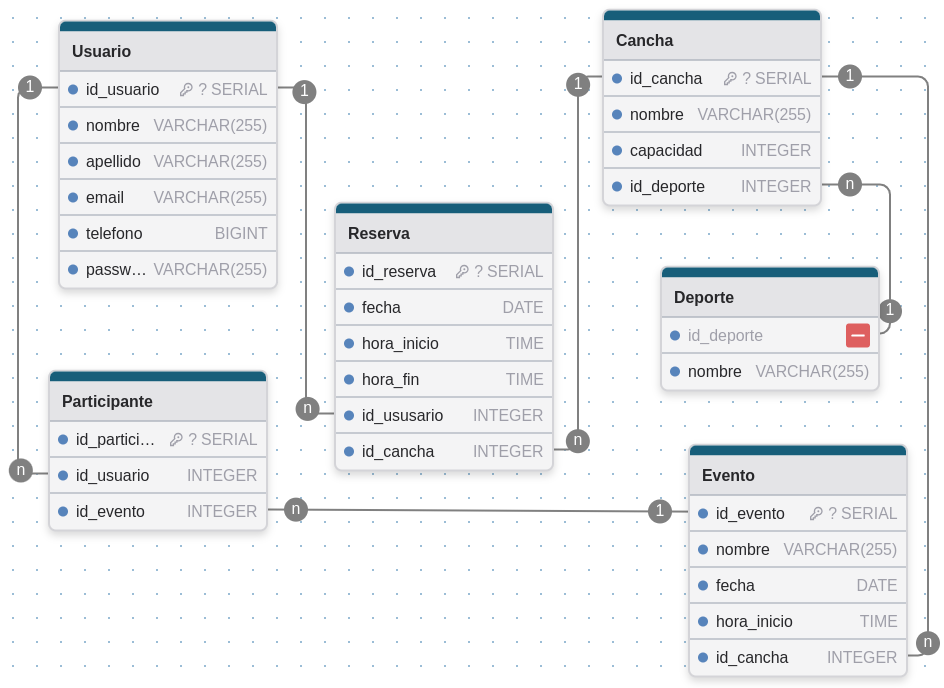
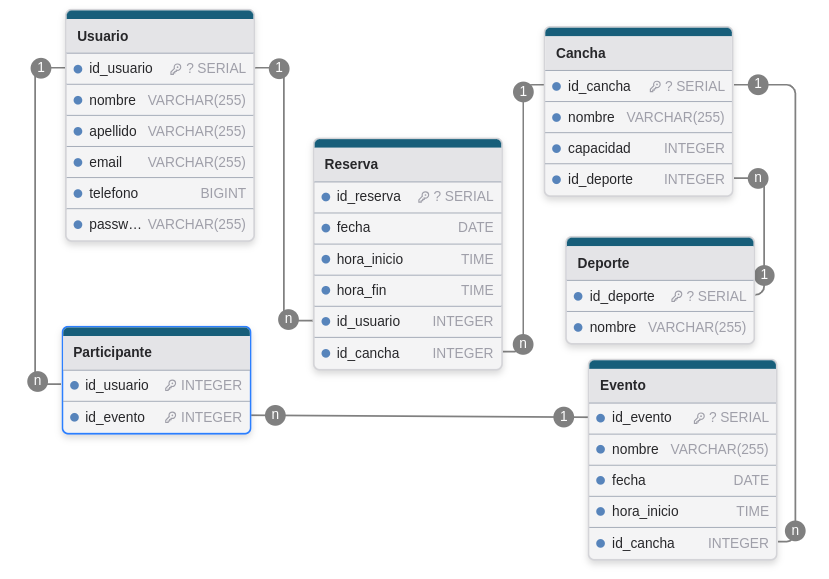
fix(db): reduces Participante table

Changed region(s): [[0.0, 0.0, 0.9952, 0.9948]]

diff --git a/DataBase/README.md b/DataBase/README.md
@@ -1,4 +1,4 @@
-# GoSportDB documentation
+# Untitled diagram documentation
 
 ## Summary
 
@@ -61,22 +61,21 @@
 
 ### Reserva
 
-| Name            | Type    | Settings    | References                     | Note |
-| --------------- | ------- | ----------- | ------------------------------ | ---- |
-| **id_reserva**  | SERIAL  | 🔑 PK, null |                                |      |
-| **fecha**       | DATE    | not null    |                                |      |
-| **hora_inicio** | TIME    | not null    |                                |      |
-| **hora_fin**    | TIME    | not null    |                                |      |
-| **id_ususario** | INTEGER | not null    | fk_Reserva_id_ususario_Usuario |      |
-| **id_cancha**   | INTEGER | not null    | fk_Reserva_id_cancha_Cancha    |      |
+| Name            | Type    | Settings    | References                    | Note |
+| --------------- | ------- | ----------- | ----------------------------- | ---- |
+| **id_reserva**  | SERIAL  | 🔑 PK, null |                               |      |
+| **fecha**       | DATE    | not null    |                               |      |
+| **hora_inicio** | TIME    | not null    |                               |      |
+| **hora_fin**    | TIME    | not null    |                               |      |
+| **id_usuario**  | INTEGER | not null    | fk_Reserva_id_usuario_Usuario |      |
+| **id_cancha**   | INTEGER | not null    | fk_Reserva_id_cancha_Cancha   |      |
 
 ### Participante
 
-| Name                | Type    | Settings    | References                         | Note |
-| ------------------- | ------- | ----------- | ---------------------------------- | ---- |
-| **id_participante** | SERIAL  | 🔑 PK, null |                                    |      |
-| **id_usuario**      | INTEGER | not null    | fk_Participante_id_usuario_Usuario |      |
-| **id_evento**       | INTEGER | not null    | fk_Participante_id_evento_Evento   |      |
+| Name           | Type    | Settings        | References                         | Note |
+| -------------- | ------- | --------------- | ---------------------------------- | ---- |
+| **id_usuario** | INTEGER | 🔑 PK, not null | fk_Participante_id_usuario_Usuario |      |
+| **id_evento**  | INTEGER | 🔑 PK, not null | fk_Participante_id_evento_Evento   |      |
 
 ## Relationships
 
@@ -91,54 +90,53 @@
 
 ```mermaid
 erDiagram
-	Cancha }o--|| Deporte : references
-	Evento }o--|| Cancha : references
-	Reserva }o--|| Usuario : references
-	Reserva }o--|| Cancha : references
-	Participante }o--|| Usuario : references
-	Participante }o--|| Evento : references
+ Cancha }o--|| Deporte : references
+ Evento }o--|| Cancha : references
+ Reserva }o--|| Usuario : references
+ Reserva }o--|| Cancha : references
+ Participante }o--|| Usuario : references
+ Participante }o--|| Evento : references
 
-	Usuario {
-		SERIAL id_usuario
-		VARCHAR(255) nombre
-		VARCHAR(255) apellido
-		VARCHAR(255) email
-		BIGINT telefono
-		VARCHAR(255) password
-	}
+ Usuario {
+  SERIAL id_usuario
+  VARCHAR(255) nombre
+  VARCHAR(255) apellido
+  VARCHAR(255) email
+  BIGINT telefono
+  VARCHAR(255) password
+ }
 
-	Deporte {
-		SERIAL id_deporte
-		VARCHAR(255) nombre
-	}
+ Deporte {
+  SERIAL id_deporte
+  VARCHAR(255) nombre
+ }
 
-	Cancha {
-		SERIAL id_cancha
-		VARCHAR(255) nombre
-		INTEGER capacidad
-		INTEGER id_deporte
-	}
+ Cancha {
+  SERIAL id_cancha
+  VARCHAR(255) nombre
+  INTEGER capacidad
+  INTEGER id_deporte
+ }
 
-	Evento {
-		SERIAL id_evento
-		VARCHAR(255) nombre
-		DATE fecha
-		TIME hora_inicio
-		INTEGER id_cancha
-	}
+ Evento {
+  SERIAL id_evento
+  VARCHAR(255) nombre
+  DATE fecha
+  TIME hora_inicio
+  INTEGER id_cancha
+ }
 
-	Reserva {
-		SERIAL id_reserva
-		DATE fecha
-		TIME hora_inicio
-		TIME hora_fin
-		INTEGER id_ususario
-		INTEGER id_cancha
-	}
+ Reserva {
+  SERIAL id_reserva
+  DATE fecha
+  TIME hora_inicio
+  TIME hora_fin
+  INTEGER id_usuario
+  INTEGER id_cancha
+ }
 
-	Participante {
-		SERIAL id_participante
-		INTEGER id_usuario
-		INTEGER id_evento
-	}
+ Participante {
+  INTEGER id_usuario
+  INTEGER id_evento
+ }
 ```
